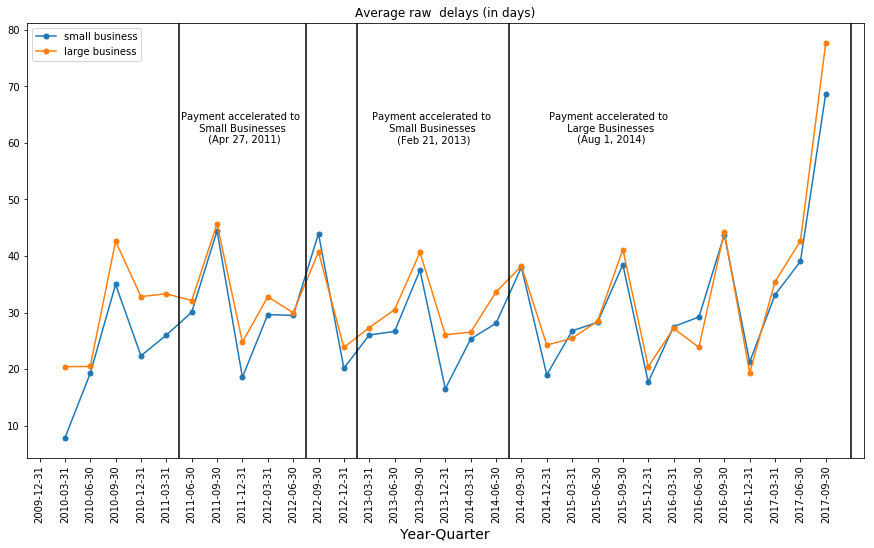
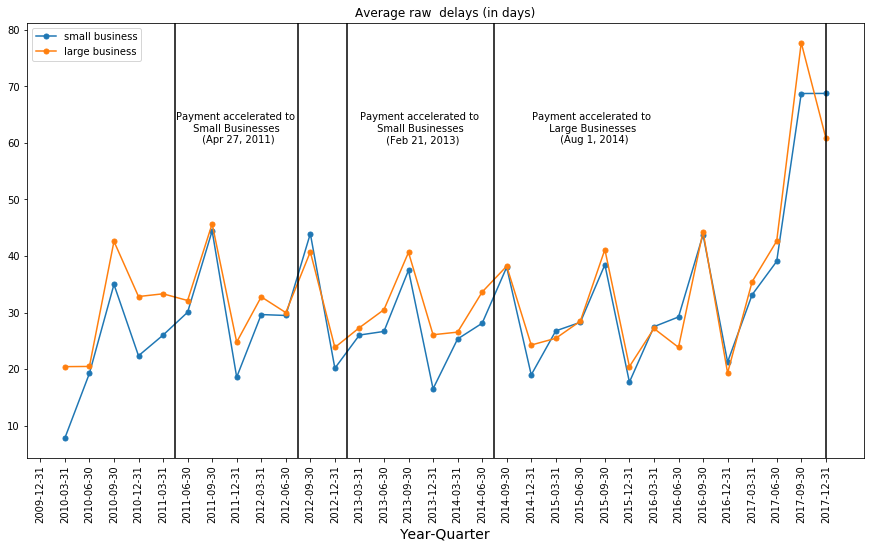
minor fix in code

Changed region(s): [[0.0927, 0.062, 0.9577, 0.9617], [0.6178, 0.1861, 0.7723, 0.2792], [0.0309, 0.8686, 0.0618, 0.9617]]

diff --git a/codes/qp_full_sample_plot.py b/codes/qp_full_sample_plot.py
@@ -20,11 +20,6 @@ df_sorted[['action_date_year_quarter','last_reported_start_date','last_reported_
 
 df_sorted["winsorized_delay"]=winsorize(df_sorted.change_in_deadline,limits=0.001)
 
-df_sorted=df_sorted[df_sorted.action_date_year_quarter<df_sorted.action_date_year_quarter.max()]
-# restrict to quarter ending June 30, 2012
-# data is truncated at July 1, 2012 -- 
-# so quarter ending Sept 30, 2012 will only have values as of July 1, 2012
-
 small_business=df_sorted.query("business_type=='S'")
 large_business=df_sorted.query("business_type=='O'")
 
